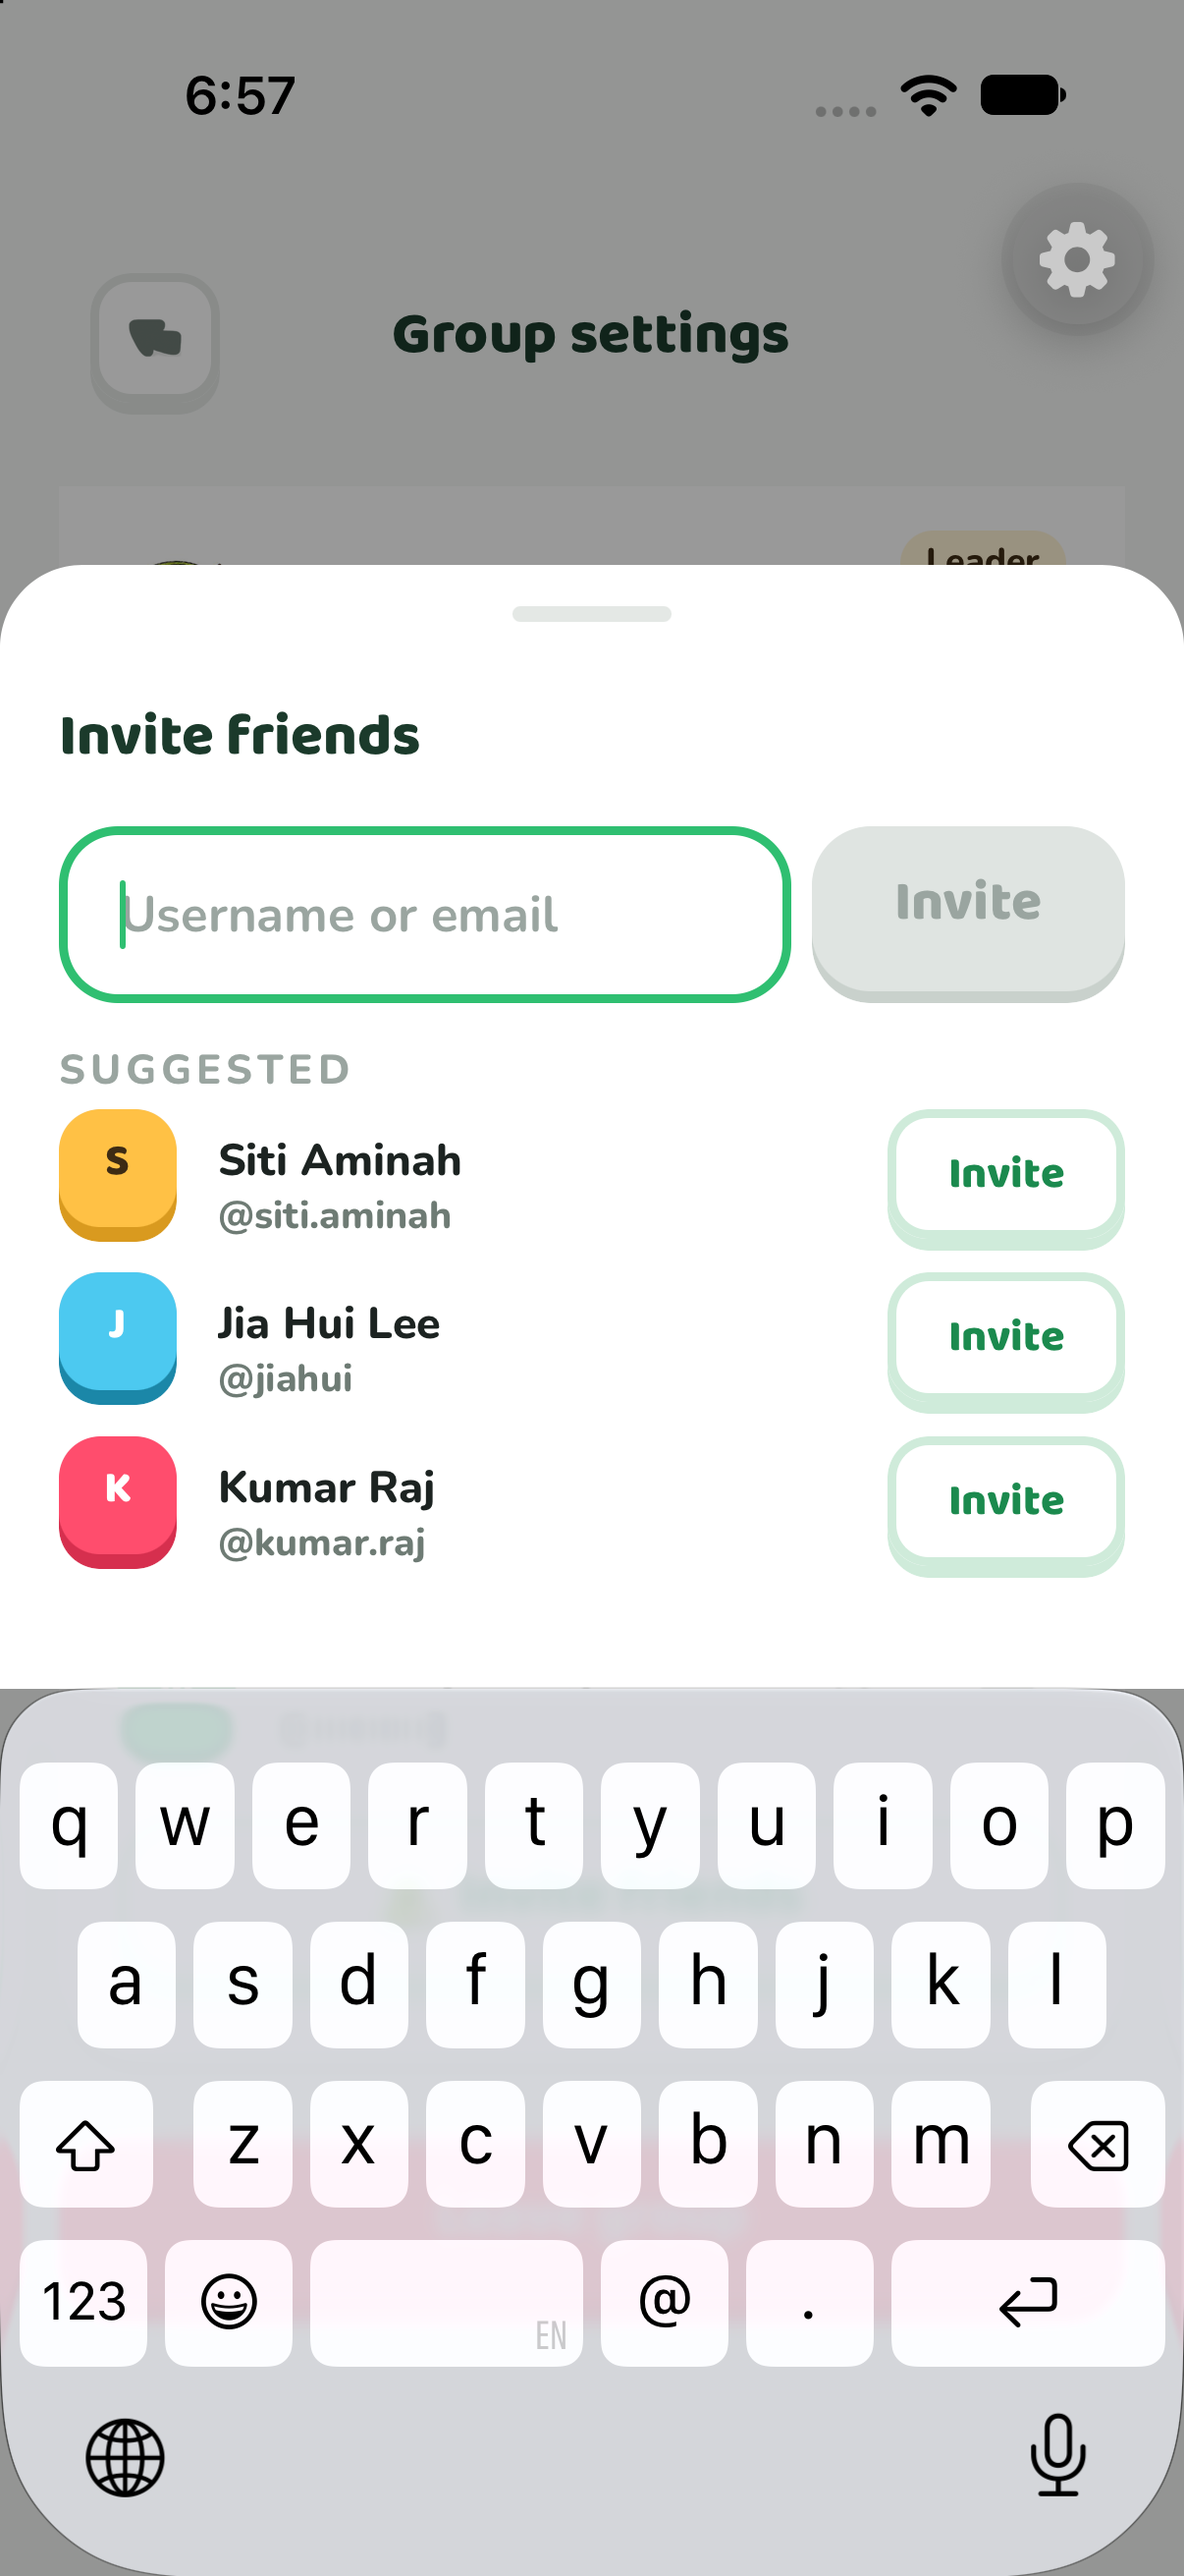
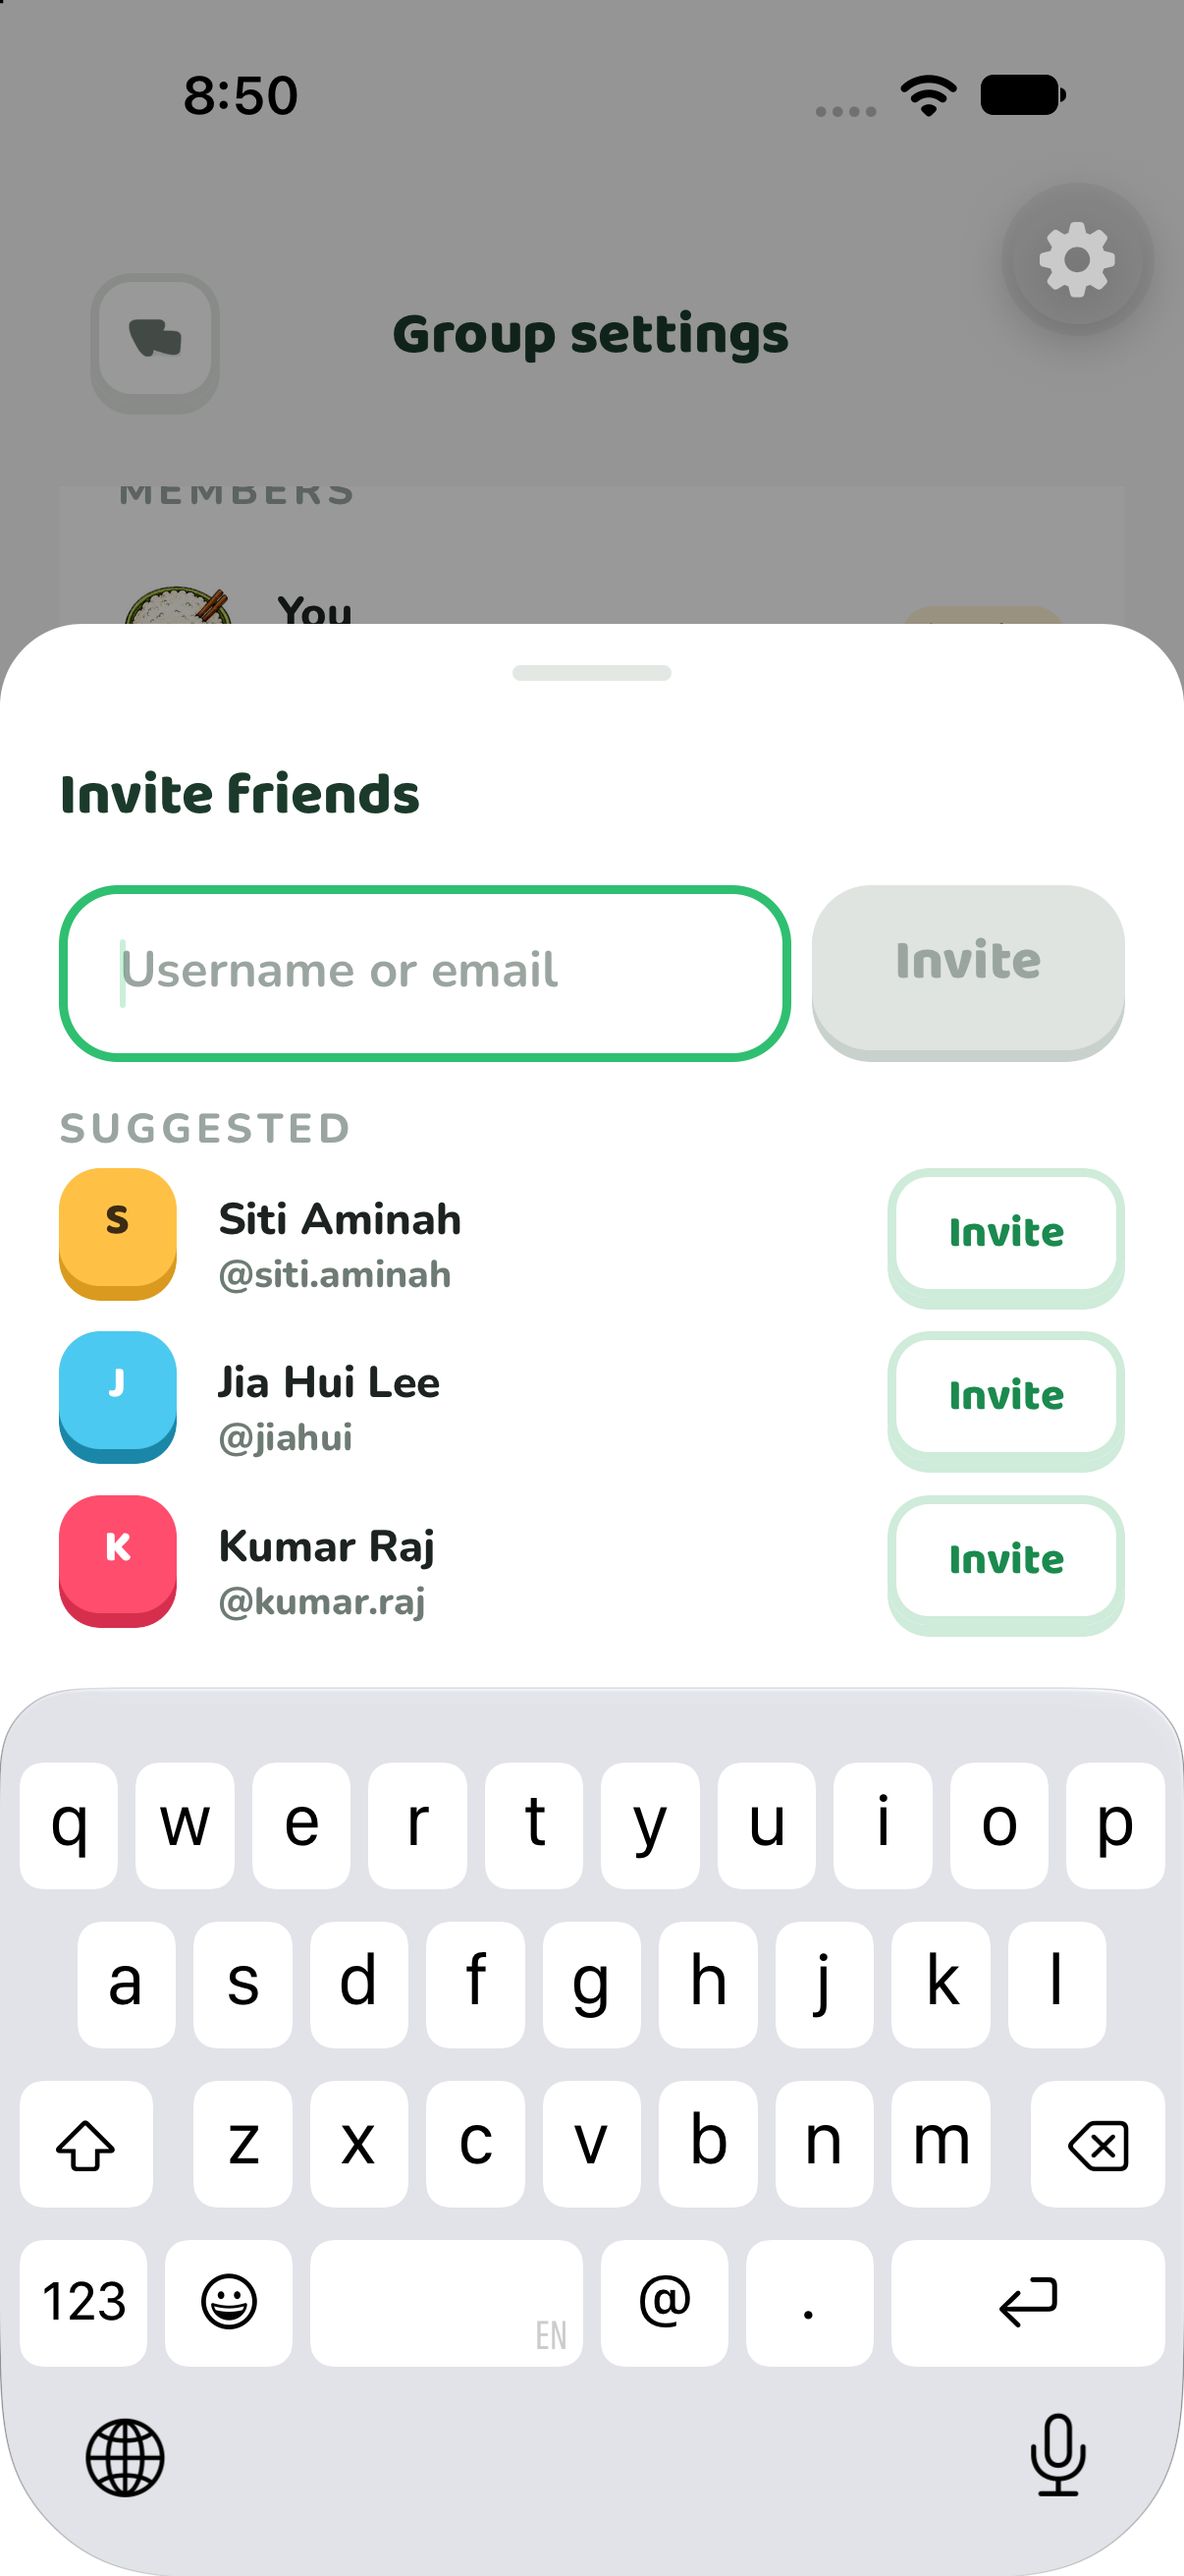
Open chat workout cards on a plain tap, and run the invite sheet down behind the keyboard
A workout card now opens on a single tap, dims under the finger and wears a
chevron, instead of waiting out a double tap that made it feel unresponsive.
Its reactions stay in the long-press menu.

The invite sheet used to be lifted whole above the keyboard, which left a
strip of scrim showing round the keyboard's rounded corners. A new
behindKeyboard option on Sheet keeps the panel on the bottom edge and pads its
content up by the keyboard's height instead, so the keys sit on the sheet.

diff --git a/apps/mobile/src/ui/Sheet.tsx b/apps/mobile/src/ui/Sheet.tsx
@@ -14,6 +14,7 @@ import {
   KeyboardAvoidingView,
   KeyboardAwareScrollView,
   type KeyboardAwareScrollViewRef,
+  useReanimatedKeyboardAnimation,
 } from 'react-native-keyboard-controller'
 import Animated, {
   Easing,
@@ -162,6 +163,14 @@ export type SheetProps = {
    */
   fillBody?: boolean
   /**
+   * For a short sheet whose own field raises the keyboard: the panel stays on
+   * the bottom edge and runs on behind the keys, and only its content rises,
+   * by the keyboard's height. Lifted whole instead, a short panel left the
+   * strip behind the keyboard's rounded corners showing the scrim, so it read
+   * as floating. Bottom sheets that are not full height only.
+   */
+  behindKeyboard?: boolean
+  /**
    * `center` floats the panel in the middle of the screen as a card that fades
    * in, rather than rising from the bottom edge: within reach of either thumb,
    * and how the workout screens present everything they open. It has no drag
@@ -289,6 +298,7 @@ export function SheetSurface({
   scrollResetKey,
   fullHeight = false,
   fillBody = false,
+  behindKeyboard = false,
   placement = 'bottom',
   children,
   className,
@@ -297,6 +307,8 @@ export function SheetSurface({
   const overlay = useOverlayInsets()
   const { height } = useWindowDimensions()
   const center = placement === 'center'
+  const keysBehind = behindKeyboard && !center && !fullHeight
+  const keyboard = useReanimatedKeyboardAnimation()
 
   /**
    * The panel rises; the scrim does not.
@@ -460,6 +472,13 @@ export function SheetSurface({
    * rather than the one in `Screen`. The same two sums a screen does.
    */
   const numpad = useNumpadZone()
+  // With `behindKeyboard`, the panel's own bottom padding grows to the
+  // keyboard's height on the UI thread, so the surface reaches the screen's
+  // edge behind the keys and the content sits a gap above them.
+  const restPadding = sheetBottomPadding(insets.bottom) + numpad.height
+  const keysPadding = useAnimatedStyle(() =>
+    keysBehind ? { paddingBottom: Math.max(-keyboard.height.value + spacing.md, restPadding) } : {},
+  )
   const scroller = useRef<KeyboardAwareScrollViewRef>(null)
   const scrolled = useRef(0)
   const trackScroll = useCallback((event: NativeSyntheticEvent<NativeScrollEvent>) => {
@@ -547,7 +566,7 @@ export function SheetSurface({
           own content instead, so the field stays above the keys and the surface
           runs the whole way down. */}
         <KeyboardAvoidingView
-          behavior={fullHeight && !center ? undefined : 'padding'}
+          behavior={(fullHeight && !center) || keysBehind ? undefined : 'padding'}
           // Styled rather than classed: this is the one element here that is not
           // a plain RN view, and whether NativeWind reaches it is not worth
           // depending on for the layout that decides the panel's height.
@@ -607,6 +626,7 @@ export function SheetSurface({
                     paddingBottom:
                       sheetBottomPadding(insets.bottom) + (fullHeight ? 0 : numpad.height),
                   },
+              keysPadding,
             ]}
             accessibilityViewIsModal
             accessible={false}

diff --git a/apps/mobile/src/features/groups/Chat.tsx b/apps/mobile/src/features/groups/Chat.tsx
@@ -844,6 +844,7 @@ function useWorkoutName() {
  */
 function WorkoutCard({ workout }: { workout: ChatWorkout }) {
   const { t } = useTranslation(['groups', 'common'])
+  const colors = useThemeColors()
   const { width } = useWindowDimensions()
   const name = useWorkoutName()(workout)
   const cardWidth = Math.min(280, Math.round(width * 0.7))
@@ -882,6 +883,8 @@ function WorkoutCard({ workout }: { workout: ChatWorkout }) {
             {postedAt(workout.started_at, t('common:date.today'), t('common:date.yesterday'))}
           </Text>
         </View>
+        {/* It opens: the same chevron a row that goes somewhere wears. */}
+        <Icon set="ui" name="chevron-right" size={16} tintColor={colors.muted} />
       </View>
       <View className="flex-row py-3">
         {stats.map((stat, index) => (
@@ -1068,17 +1071,30 @@ function MessageGestures({
       void Haptics.impactAsync(Haptics.ImpactFeedbackStyle.Medium).catch(() => {})
       onMenu(message)
     })
-  // A single tap only once a double tap and a hold have both been ruled out,
-  // so tapping twice hearts a workout card rather than opening it.
+  // A card that opens something (a workout) answers a plain tap at once, dimmed
+  // under the finger like any button, so it reads as one. Waiting out a double
+  // tap made it feel dead; its heart is in the long-press menu instead.
+  const pressed = useSharedValue(0)
   const singleTap = Gesture.Tap()
     .enabled(Boolean(onOpen))
-    .runOnJS(true)
-    .onEnd((_event, success) => {
-      if (success) onOpen?.()
+    .onBegin(() => {
+      pressed.value = withTiming(1, { duration: 80 })
     })
-  const gesture = Gesture.Race(pan, Gesture.Exclusive(doubleTap, longPress, singleTap))
+    .onFinalize(() => {
+      pressed.value = withTiming(0, { duration: 160 })
+    })
+    .onEnd((_event, success) => {
+      if (success && onOpen) runOnJS(onOpen)()
+    })
+  const gesture = Gesture.Race(
+    pan,
+    onOpen ? Gesture.Exclusive(longPress, singleTap) : Gesture.Exclusive(doubleTap, longPress),
+  )
 
-  const moving = useAnimatedStyle(() => ({ transform: [{ translateX: shift.value }] }))
+  const moving = useAnimatedStyle(() => ({
+    transform: [{ translateX: shift.value }],
+    opacity: 1 - pressed.value * 0.3,
+  }))
   const arrow = useAnimatedStyle(() => ({
     opacity: interpolate(shift.value, [12, REPLY_AT], [0, 1], 'clamp'),
     transform: [{ scale: interpolate(shift.value, [12, REPLY_AT], [0.6, 1], 'clamp') }],

diff --git a/apps/mobile/src/features/groups/InviteSheet.tsx b/apps/mobile/src/features/groups/InviteSheet.tsx
@@ -91,6 +91,9 @@ export function InviteSheet({
       }}
       closeLabel={t('common:action.close')}
       title={t('inviteFriends')}
+      // Down to the screen's edge behind the keys, rather than lifted above
+      // them with a strip of scrim showing round the keyboard's corners.
+      behindKeyboard
       // `autoFocus` inside a window that has not been presented yet is
       // dropped, so the field is focused once the sheet is up (see `Sheet`).
       onShow={() => field.current?.focus()}

diff --git a/README.md b/README.md
@@ -3298,8 +3298,9 @@ meal share a tile and swipe sideways inside it.
   if the workout ended in the last day, so a sync backfilling months of runs
   shares none of them; demo data never is, nor the Apple Health copy of a logger
   workout. The + has a Workouts tab beside Food with the last five of both,
-  listed once. A tap on a workout card opens it (a single tap that waits out the
-  double tap, so tapping twice still hearts it).
+  listed once. A tap on a workout card opens it straight away, dimming under the
+  finger like a button; a workout card has no double-tap heart, so the tap need
+  not wait to rule one out, and its reactions are in the long-press menu.
 - **Release 1.0 still reads every message.** `body` stays required and a food
   message's body is its name and calories ("Nasi lemak (640 kcal)"), which is
   also what its push says, so an app that knows nothing of food cards draws a
